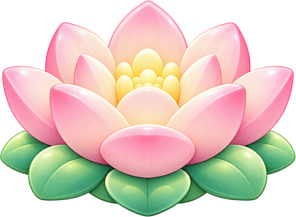
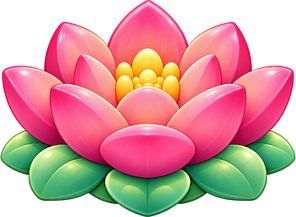
Enrich Home lotus with rose petals and golden center

diff --git a/tools/artgen/models/home-fountain-2026-10-15.md b/tools/artgen/models/home-fountain-2026-10-15.md
@@ -13,6 +13,10 @@ Home and its three new foreground layers now bypass the old additional Gaussian 
[5 lines of base64/hex data omitted]
 
 Project-generated artwork; no imported third-party or stock material. Source images are in `tools/heroanim/backgrounds/`; runtime counterparts are in `client/Assets/Bloomlings/Art/Backgrounds/Resources/Backgrounds/`.
+
+## Lotus color refinement — 2026-10-15
+
+The owner found the initial blush/ivory lotus too pale. OpenAI ImageGen edited the previous lotus (`exec-7a7dae9c-bed5-4994-a961-89633ef450bf.png`) into richer rose/coral pink petals with deeper folds and a warm golden center. The rounded petal structure, jade leaf base, transparent background, 296 × 217 production canvas and original placement are retained. The same alpha threshold and resampling preparation described above is used; no extra blur or dimming is applied.
